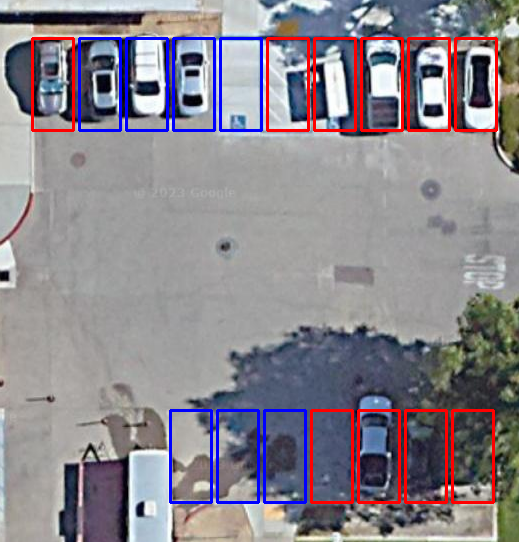
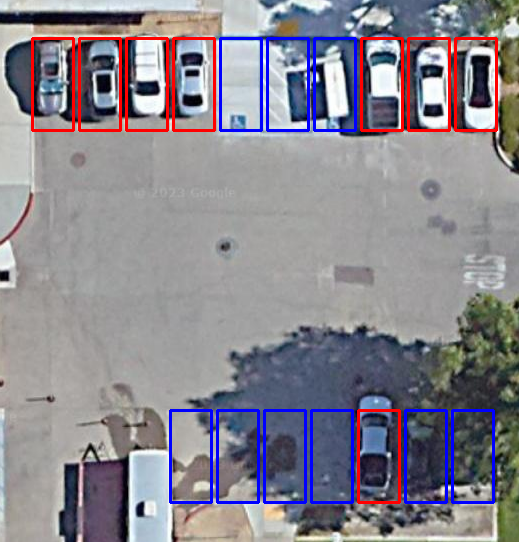
WHY ARE THE RBG VALUES SWITCHED

diff --git a/discord/lib/func.py b/discord/lib/func.py
@@ -14,11 +14,9 @@ def draw_spaces(array, path):
     # BOTTOM ROW
     for i in range(7):    
         j = i + 10          # array offset (to align with x_offset)
-        edit_bot(image, i, array[j])
-        
-    # EXPORT AND SAVE IMAGE        
+        edit_bot(image, i, array[j])   
     
-    cv2.imwrite('space.png', image)
+    cv2.imwrite('space.png', image) # EXPORT AND SAVE IMAGE     
 
     # DEBUG
     # cv2.imshow("Wow", image)
@@ -29,9 +27,9 @@ def edit_top(image, index, is_open):
     """ RECTANGLE VARIABLES """
     left_x = 32
     right_x = 73
-    red = (255, 0, 0)
-    yellow = (255, 255, 0)
-    blue = (0, 0, 255)
+    red = (0, 0, 255)
+    yellow = (0, 255, 255)
+    blue = (255, 0, 0)
     thickness = 2
     
     if (is_open):
@@ -46,9 +44,9 @@ def edit_bot(image, index, is_open):
     """ RECTANGLE VARIABLES """
     left_x = 170
     right_x = 211
-    red = (255, 0, 0)
-    yellow = (255, 255, 0)
-    blue = (0, 0, 255)
+    red = (0, 0, 255)
+    yellow = (0, 255, 255)
+    blue = (255, 0, 0)
     thickness = 2
     
     if (is_open):
@@ -59,15 +57,3 @@ def edit_bot(image, index, is_open):
     return cv2.rectangle(image, (left_x + (47 * index), 410), (right_x + (47 * index), 502), color, thickness)
 
 """ DEBUG MAIN """
-
-def main():
-    
-    data = [False, False, False, False, True, True, True, False, False, False, True, True, True, True, False, True, True]
-    #df = pd.Dataframe(data, columns="availability")
-
-    print("Running")
-    draw_spaces(data)
-
-    
-if __name__ == "__main__":
-    main()

diff --git a/discord/main.py b/discord/main.py
@@ -3,6 +3,7 @@ from discord.ext import commands
 import datetime
 from hidden import key
 from lib import func
+import time
 
 print('running')
 
@@ -36,9 +37,9 @@ async def on_ready():
 @bot.command()
 async def update(ctx):
     
-    data = [True, False, False, False, False, True, True, True, True, True, False, False, False, True, True, True, True]# FIXME
+    data = [False, False, False, False, True, True, True, False, False, False, True, True, True, True, False, True, True] # FIXME
     
-    func.draw_spaces(data, 'space.png')
+    func.draw_spaces(data, 'lib/images/parking_lot.png') # REPLACE DATA WITH NICK'S OUTPUT
     
     with open('space.png', 'rb') as f:
         picture = discord.File(f)
